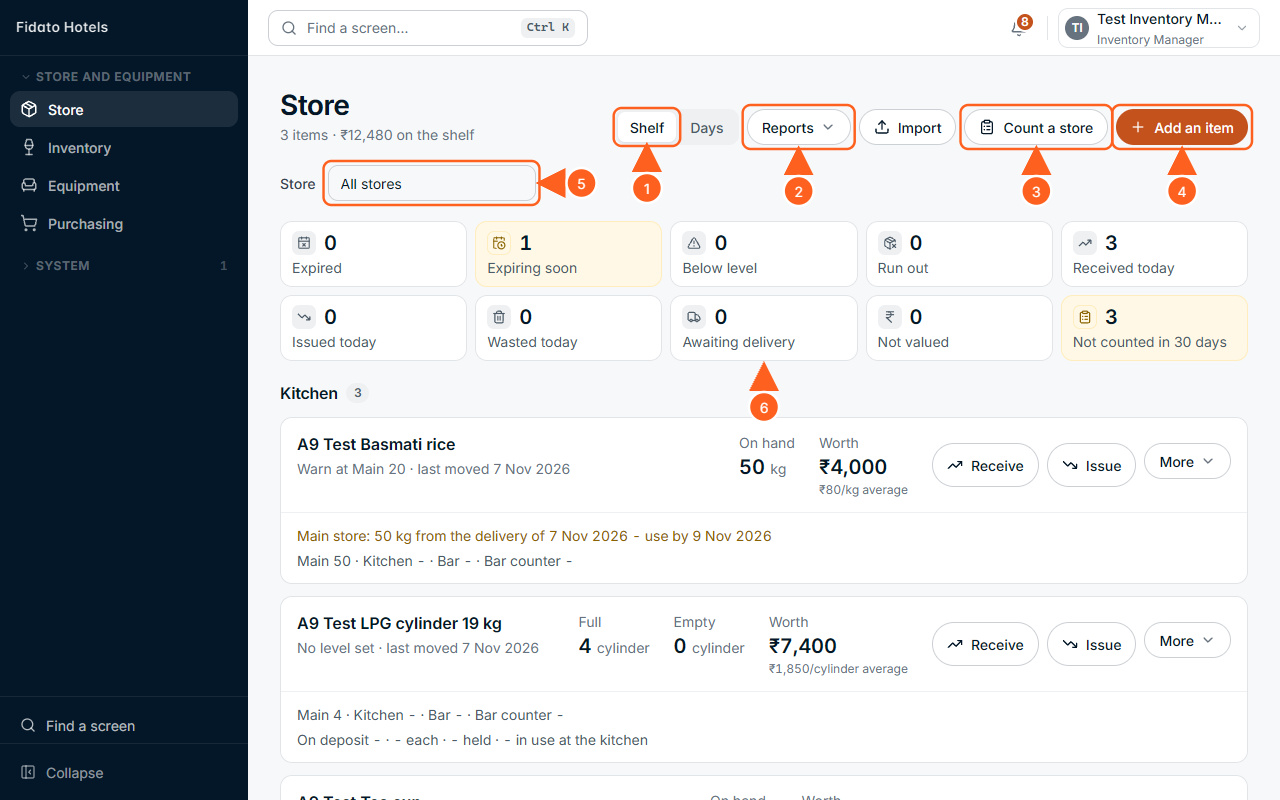
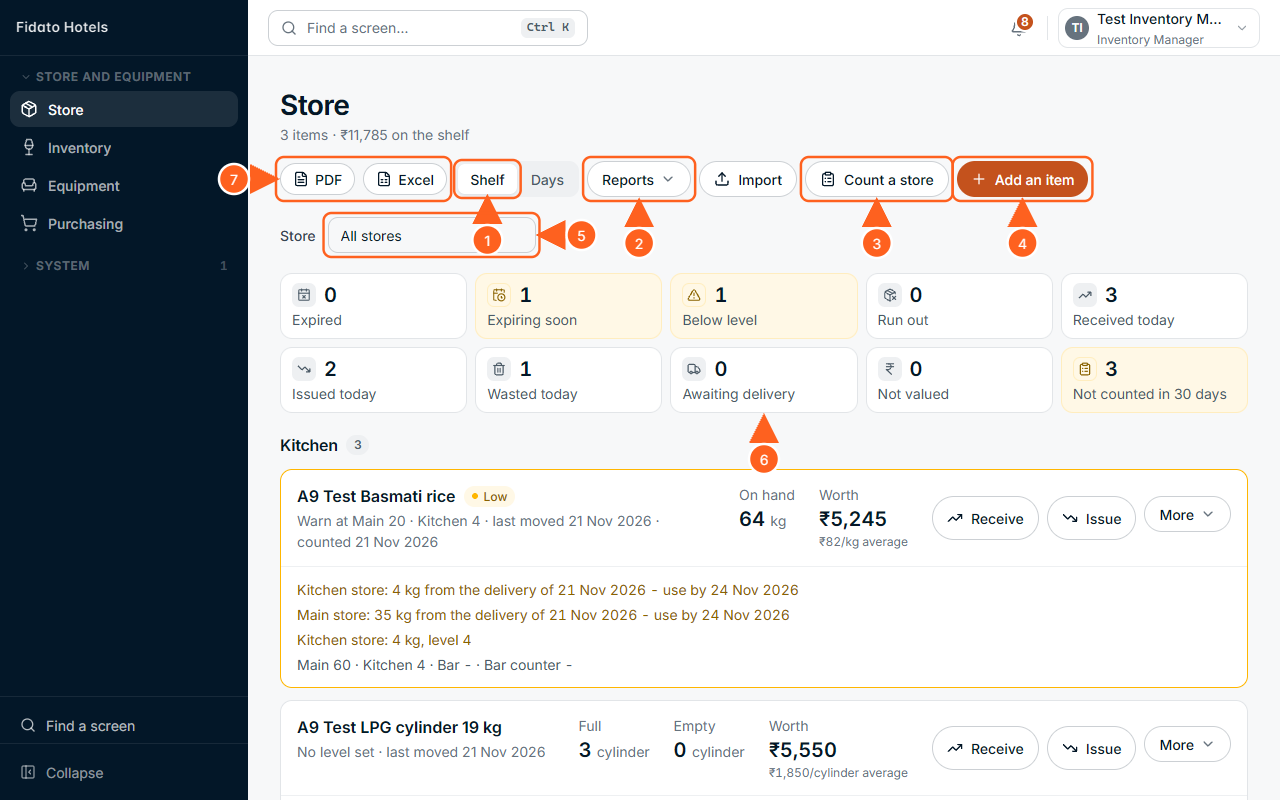
Book A9: the Store, Purchasing and Equipment pictures show their PDF, Excel and CSV buttons

diff --git a/docs/manual/chapters/a9.html b/docs/manual/chapters/a9.html
@@ -179,7 +179,7 @@
   <p><span class="ui">Shelf</span> is the Store as it stands: each item, what is on hand, and what it is worth. Under the heading, the number of items and what the shelf is worth in all.</p>
 
   <figure class="shot" id="fig-A9-06">
-    <img src="img/A9-06.png" alt="The Store: Shelf, Days, Reports, Import, Count a store, Add an item, the Store picker, ten tiles in two rows and the items under Kitchen">
+    <img src="img/A9-06.png" alt="The Store: PDF and Excel, Shelf, Days, Reports, Import, Count a store, Add an item, the Store picker, ten tiles in two rows and the items under Kitchen">
     <figcaption><b>Figure A9-06.</b> The Store.</figcaption>
     <ol class="callouts">
       <li>Shelf. Days is the other view (A9.10)</li>
@@ -188,6 +188,7 @@
       <li>Add an item (A9.3)</li>
       <li>Store: All stores, or one store</li>
       <li>The tiles. Tap one to see only those items; tap it again to see all</li>
+      <li>PDF and Excel: the shelf as you see it</li>
     </ol>
   </figure>
   <p><span class="ui">PDF</span> and <span class="ui">Excel</span> save the shelf as you see it: the place and the tile chosen, with each item's cost and value. It is for those who hold the Store's export: the owner, an administrator, the general manager, the Inventory Manager or the accountant (A11.2, <span class="d">D27-383</span>). The Restaurant tab of Inventory saves the kitchen's day sheet the same way, for whoever opens it.</p>
@@ -573,9 +574,9 @@
   </figure>
 
   <figure class="shot" id="fig-A9-22">
-    <img src="img/A9-22.png" alt="The Purchasing list: PO-5EL-2610-0001, Waiting for approval, What for, Main store, Items 1, Total -, asked by Test Inventory Manager">
+    <img src="img/A9-22.png" alt="The Purchasing list, with PDF and Excel beside Ask to buy: PO-5EL-2611-0002, Waiting for approval, What for, Main store, Items 1, Total -, asked by Test Inventory Manager; under it PO-5EL-2611-0001, Delivered">
     <figcaption><b>Figure A9-22.</b> The list of purchases.</figcaption>
-    <ol class="callouts"><li>Ask to buy</li><li>Its state</li><li>What it is for. Tap a row to open the order</li></ol>
+    <ol class="callouts"><li>Ask to buy</li><li>Its state</li><li>What it is for. Tap a row to open the order</li><li>PDF and Excel: the requests as you see them</li></ol>
   </figure>
 
   <figure class="shot" id="fig-A9-23">
@@ -1071,7 +1072,8 @@
       <li>Refuse</li>
       <li>Where, and Status: the list's filters</li>
       <li>Waiting to leave the store</li>
-      <li>PDF and Excel of the list as filtered, and CSV of every line: for the owner, an Admin, the GM or the accountant</li>
+      <li>CSV: every line, for a spreadsheet</li>
+      <li>PDF and Excel: the list as filtered. These three buttons are for the owner, an Admin, the GM or the accountant</li>
     </ol>
   </figure>
 
